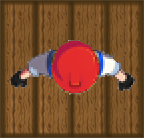
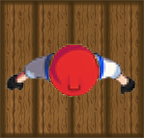
fixed graphics

Changed region(s): [[0.0278, 0.2899, 0.9444, 0.7246]]

diff --git a/src/View/MapView.java b/src/View/MapView.java
@@ -16,20 +16,28 @@ class MapView extends GridPane {
     private final static Image GOAL_BOX = new Image("images/goalBox.png", 100, 100, false, false);
     private final static Image WALL = new Image("images/wall.png", 100, 100, false, false);
 
-    private final static Image GOAL_PLAYER = new Image("images/goalPlayer.png", 100, 100, false, false);
+    private final static Image GOAL_PLAYER_N = new Image("images/goalPlayerU.png", 100, 100, false, false);
+    private final static Image GOAL_PLAYER_E = new Image("images/goalPlayerR.png", 100, 100, false, false);
+    private final static Image GOAL_PLAYER_S = new Image("images/goalPlayer.png", 100, 100, false, false);
+    private final static Image GOAL_PLAYER_W = new Image("images/goalPlayerL.png", 100, 100, false, false);
+
     private final static Image PLAYER_N = new Image("images/playerU.png", 100, 100, false, false);
     private final static Image PLAYER_E = new Image("images/playerR.png", 100, 100, false, false);
     private final static Image PLAYER_S = new Image("images/player.png", 100, 100, false, false);
     private final static Image PLAYER_W = new Image("images/playerL.png", 100, 100, false, false);
 
-    private final static Image GOAL_PLAYER2 = new Image("images/goalPlayer2.png", 100, 100, false, false);
+    private final static Image GOAL_PLAYER2_N = new Image("images/goalPlayer2U.png", 100, 100, false, false);
+    private final static Image GOAL_PLAYER2_E = new Image("images/goalPlayer2R.png", 100, 100, false, false);
+    private final static Image GOAL_PLAYER2_S = new Image("images/goalPlayer2.png", 100, 100, false, false);
+    private final static Image GOAL_PLAYER2_W = new Image("images/goalPlayer2L.png", 100, 100, false, false);
+
     private final static Image PLAYER_N2 = new Image("images/player2U.png", 100, 100, false, false);
     private final static Image PLAYER_E2 = new Image("images/player2R.png", 100, 100, false, false);
     private final static Image PLAYER_S2 = new Image("images/player2.png", 100, 100, false, false);
     private final static Image PLAYER_W2 = new Image("images/player2L.png", 100, 100, false, false);
 
-    private final static Image[] PLAYER1 = new Image[] {GOAL_PLAYER, GOAL_PLAYER, GOAL_PLAYER, GOAL_PLAYER, PLAYER_N, PLAYER_E, PLAYER_S, PLAYER_W};
-    private final static Image[] PLAYER2 = new Image[] {GOAL_PLAYER2, GOAL_PLAYER2, GOAL_PLAYER2, GOAL_PLAYER2, PLAYER_N2, PLAYER_E2, PLAYER_S2, PLAYER_W2};
+    private final static Image[] PLAYER1 = new Image[] {GOAL_PLAYER_N, GOAL_PLAYER_E, GOAL_PLAYER_S, GOAL_PLAYER_W, PLAYER_N, PLAYER_E, PLAYER_S, PLAYER_W};
+    private final static Image[] PLAYER2 = new Image[] {GOAL_PLAYER2_N, GOAL_PLAYER2_E, GOAL_PLAYER2_S, GOAL_PLAYER2_W, PLAYER_N2, PLAYER_E2, PLAYER_S2, PLAYER_W2};
 
     private MapModel model;
     private ImageView[][] tiles;
